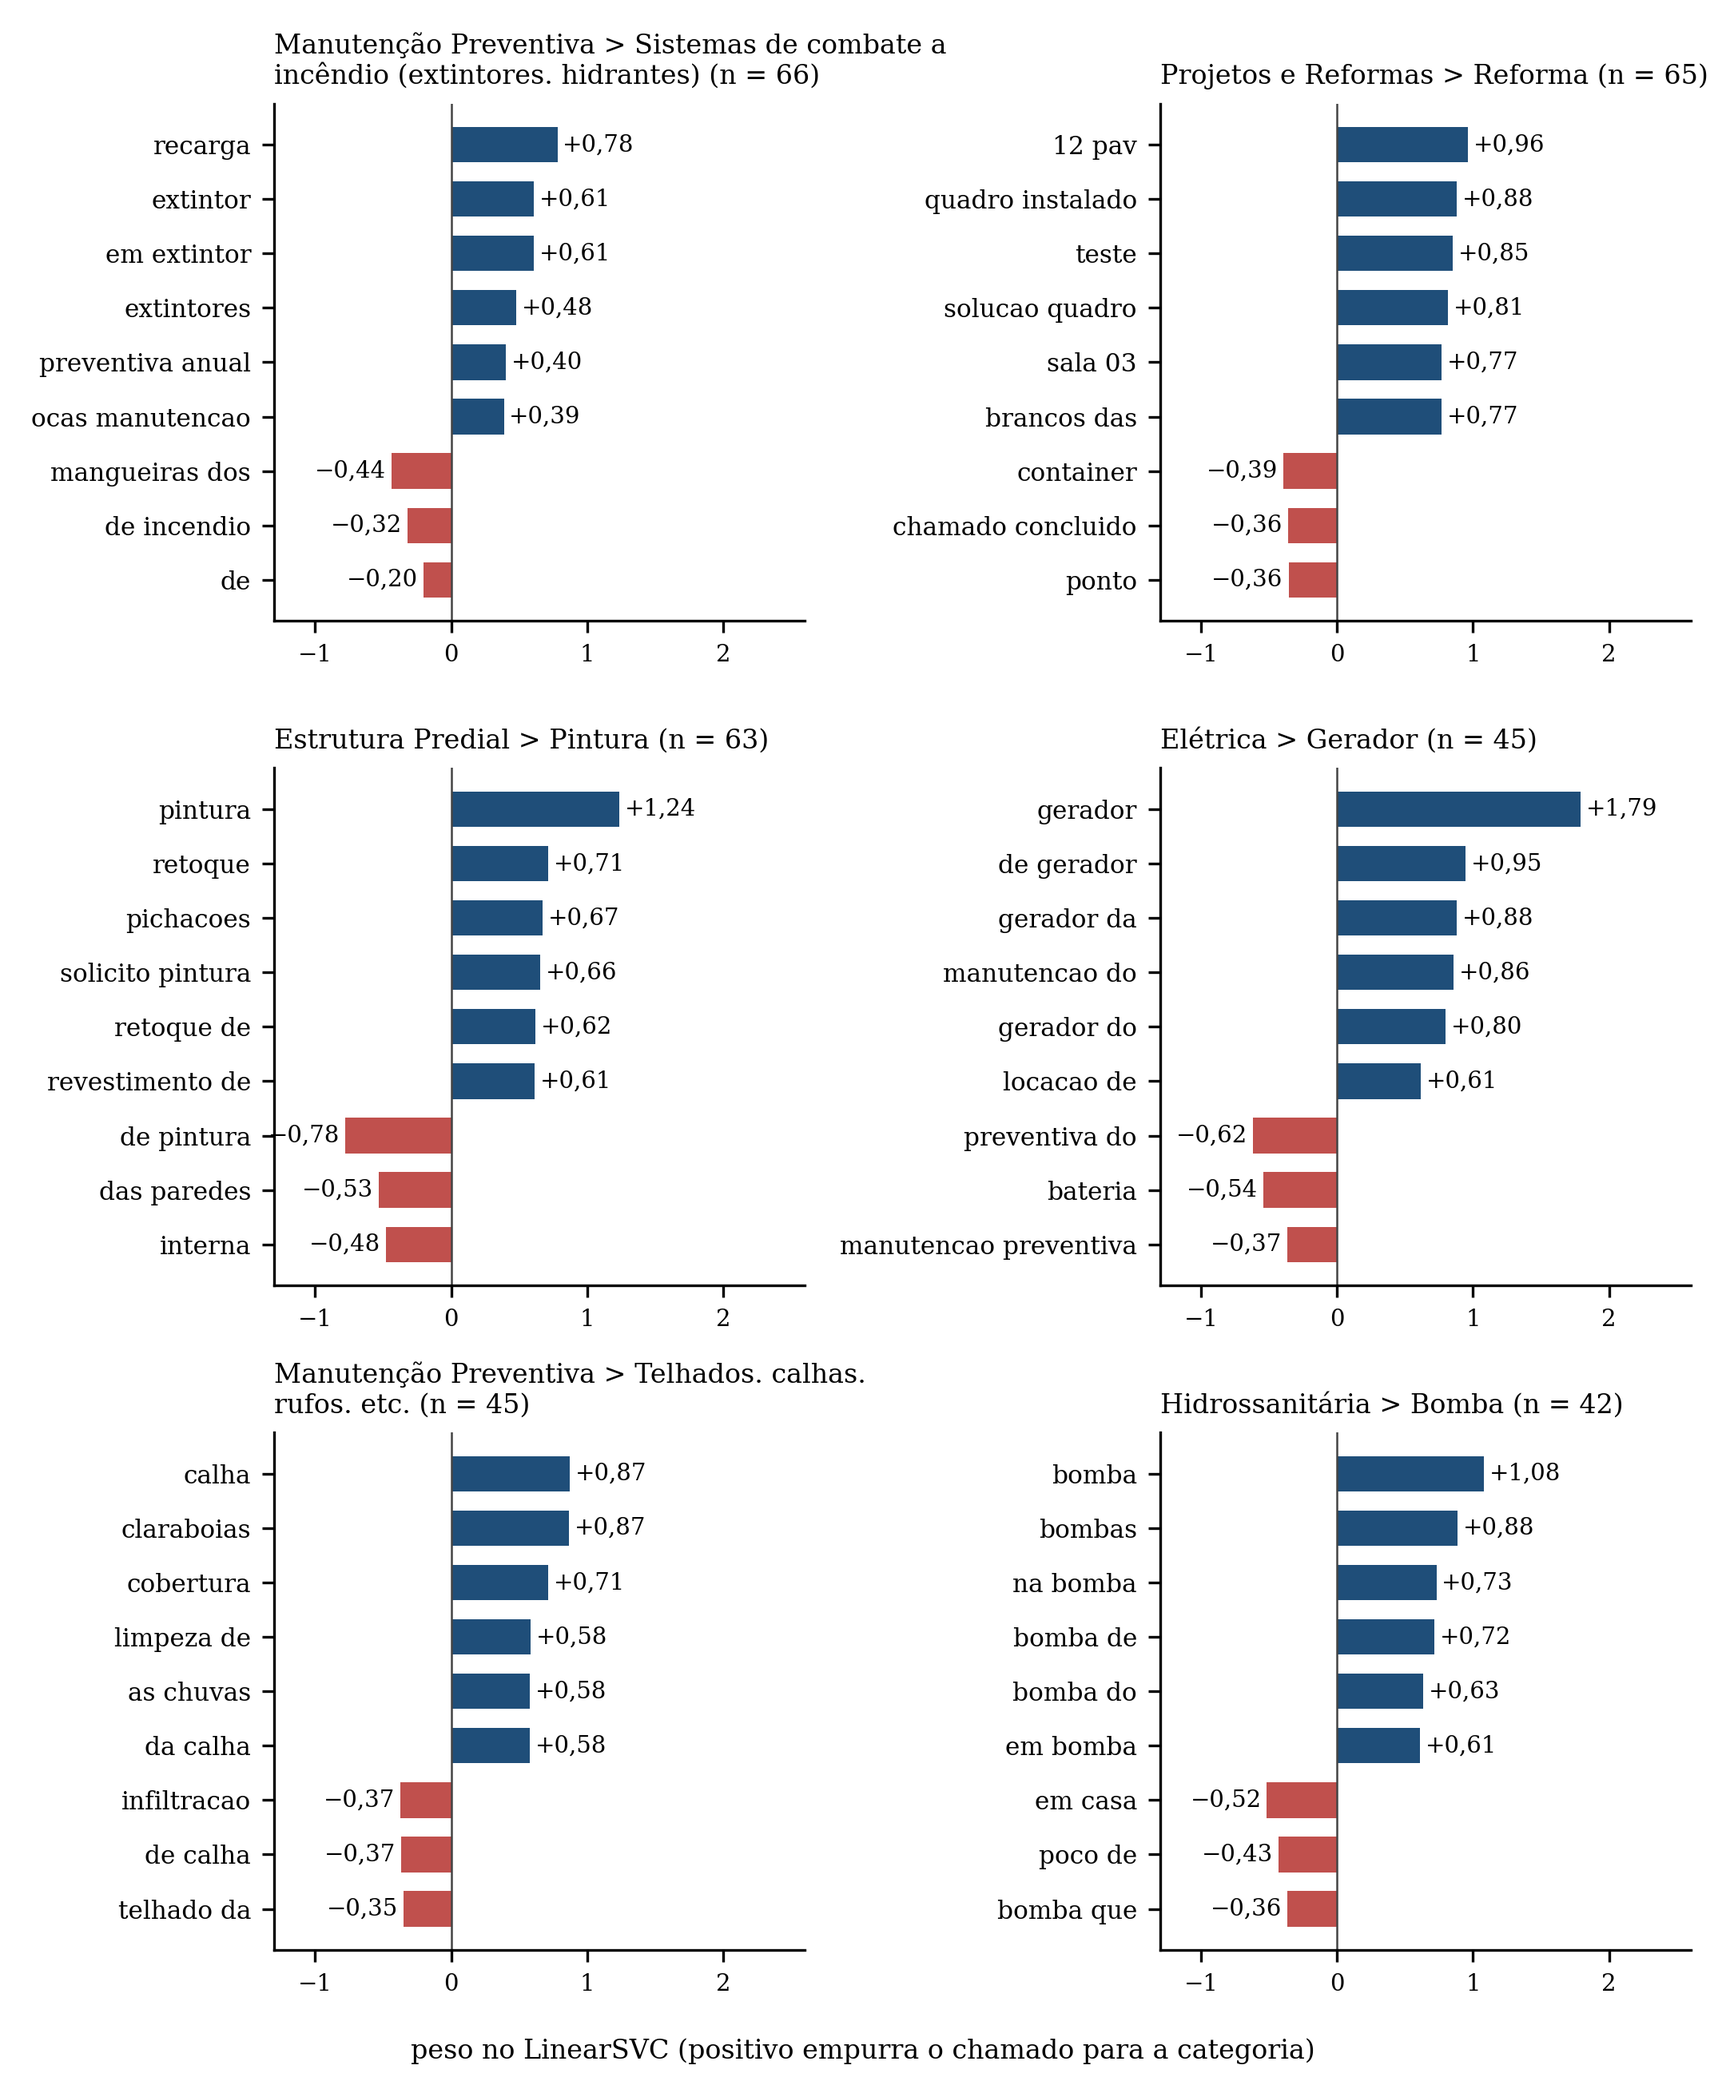
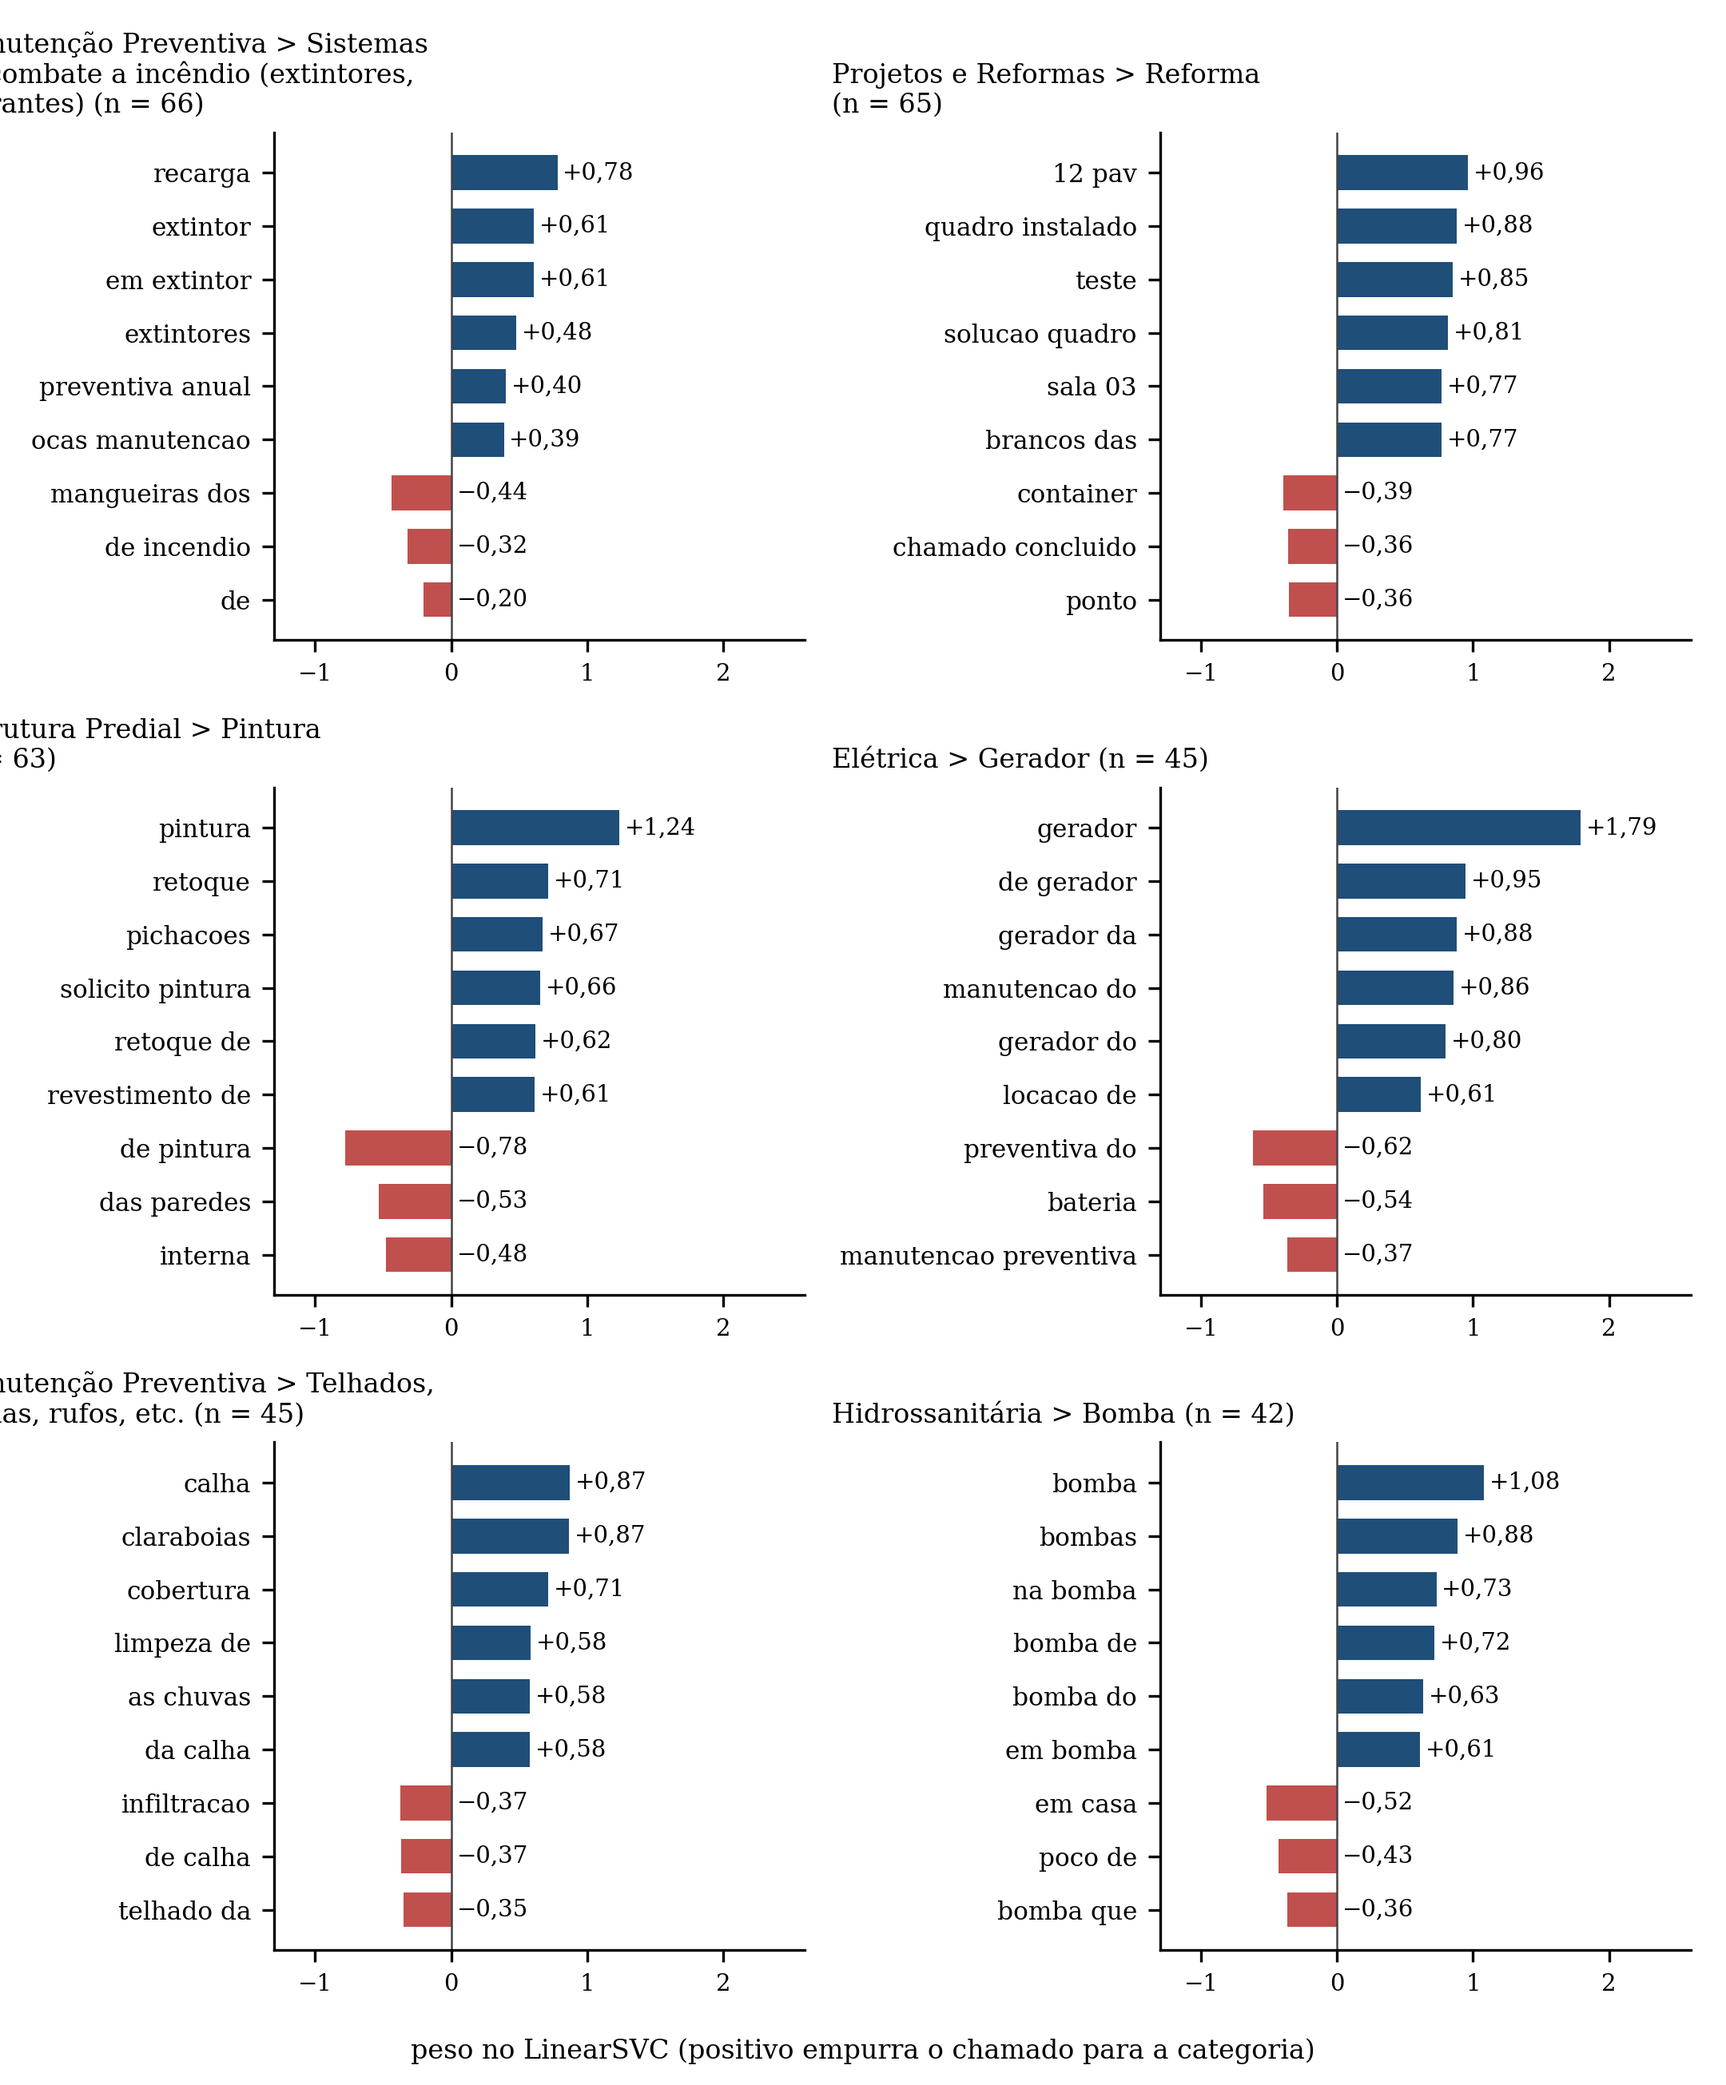
fix(trilha-b): titulos, rotulos e virgula do nome nas figuras de pesos

diff --git a/src/figuras_pesos_trilha_b.py b/src/figuras_pesos_trilha_b.py
@@ -61,12 +61,12 @@ def desenhar(paineis: list[dict], saida: Path, colunas: int = 2, linhas: int = 3
         ax.set_yticks(ys)
         ax.set_yticklabels([t for t, _, _ in itens], fontsize=7.5)
         for y, (_, v, _) in zip(ys, itens):
-            ax.text(v + (0.04 if v >= 0 else -0.04), y, numero(v), va="center",
-                    ha="left" if v >= 0 else "right", fontsize=7)
+            ax.text(max(v, 0) + 0.04, y, numero(v), va="center", ha="left", fontsize=7)
         ax.axvline(0, color="#444444", lw=0.6)
         ax.set_xlim(-1.3, 2.6)
-        titulo = "\n".join(textwrap.wrap(f"{p['titulo']} (n = {p['n']:,})".replace(",", "."), 46))
-        ax.set_title(titulo, fontsize=8, loc="left")
+        milhar = f"{p['n']:,}".replace(",", ".")
+        titulo = "\n".join(textwrap.wrap(f"{p['titulo']} (n = {milhar})", 34))
+        ax.set_title(titulo, fontsize=8, loc="left", x=-0.62)
         ax.tick_params(axis="x", labelsize=7)
     fig.supxlabel("peso no LinearSVC (positivo empurra o chamado para a categoria)", fontsize=8)
     fig.tight_layout()
